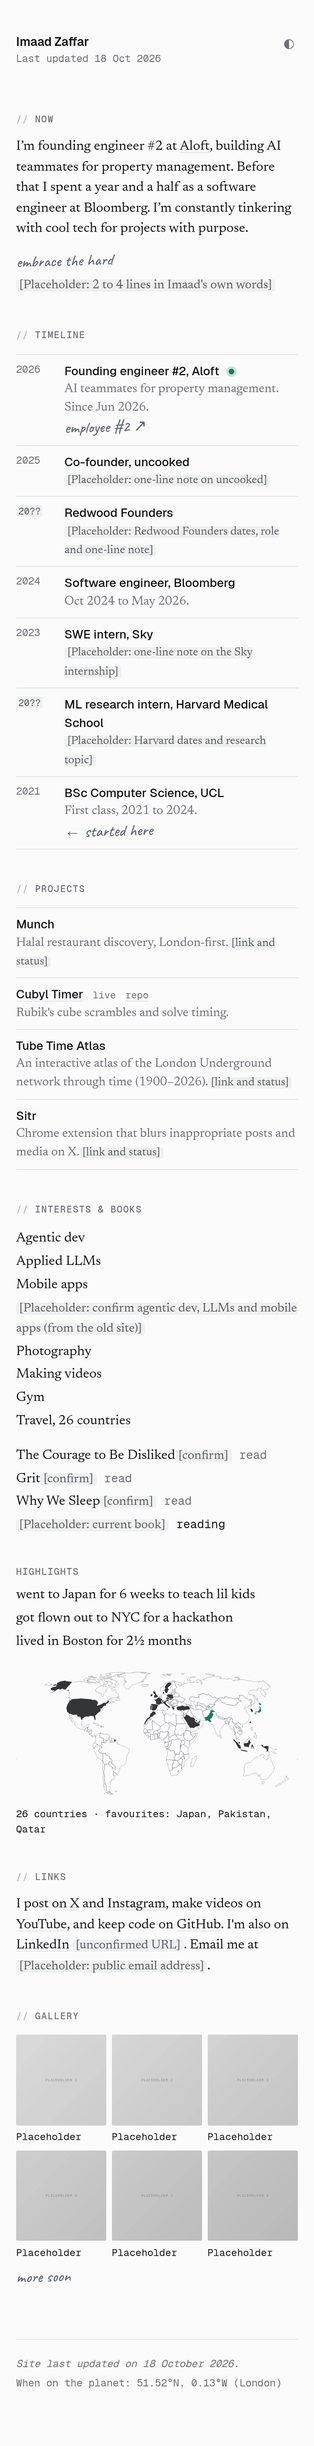
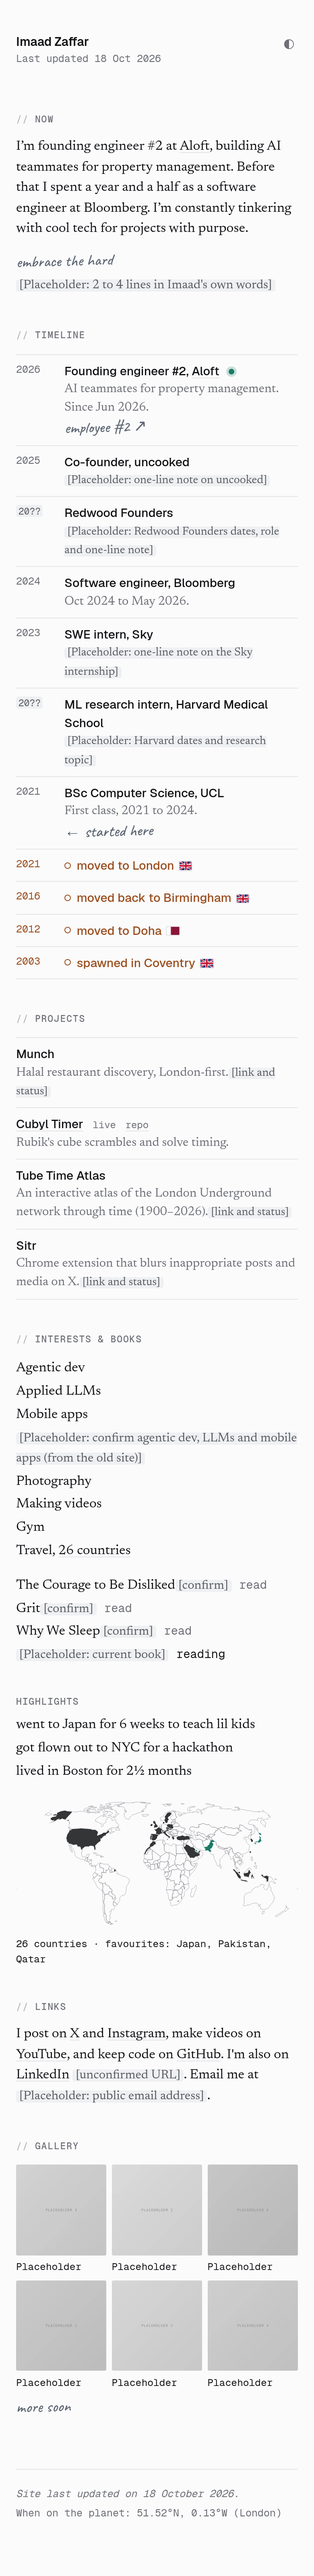
feat(site): add life milestones to the timeline
Timeline entries are now a union on kind. Life rows show in a warm colour with a ring marker and an inline SVG flag, interleaved with work rows by file order.

diff --git a/src/content.config.ts b/src/content.config.ts
@@ -3,6 +3,7 @@ import { file, glob } from 'astro/loaders'
 import countries from 'i18n-iso-countries'
 
 const todo = z.string().optional()
+const alpha2 = Object.keys(countries.getAlpha2Codes()) as [string, ...string[]]
 
 const now = defineCollection({
   loader: glob({ pattern: 'now.md', base: './src/content' }),
@@ -11,16 +12,26 @@ const now = defineCollection({
 
 const timeline = defineCollection({
   loader: file('./src/content/timeline.json'),
-  schema: z.object({
-    year: z.number().int().nullable(),
-    role: z.string().nullable(),
-    org: z.string(),
-    url: z.string().url().optional(),
-    note: z.string().nullable(),
-    current: z.boolean().default(false),
-    aside: z.string().optional(),
-    todo,
-  }),
+  schema: z.discriminatedUnion('kind', [
+    z.object({
+      kind: z.literal('work'),
+      year: z.number().int().nullable(),
+      role: z.string().nullable(),
+      org: z.string(),
+      url: z.string().url().optional(),
+      note: z.string().nullable(),
+      current: z.boolean().default(false),
+      aside: z.string().optional(),
+      todo,
+    }),
+    z.object({
+      kind: z.literal('life'),
+      year: z.number().int(),
+      text: z.string(),
+      place: z.string(),
+      country: z.enum(alpha2),
+    }),
+  ]),
 })
 
 const interests = defineCollection({
@@ -48,8 +59,6 @@ const projects = defineCollection({
     todo,
   }),
 })
-
-const alpha2 = Object.keys(countries.getAlpha2Codes()) as [string, ...string[]]
 
 const travel = defineCollection({
   loader: file('./src/content/travel.json'),

diff --git a/src/styles/global.css b/src/styles/global.css
@@ -11,6 +11,7 @@
   --mark: #eff0f2;
   --mark-ink: #5a5c62;
   --pencil: #5d6672;
+  --life: #9a4f1f;
   color-scheme: light;
 }
 :root[data-theme='dark'] {
@@ -22,6 +23,7 @@
   --mark: #1b1c1f;
   --mark-ink: #9a9da4;
   --pencil: #8e97a4;
+  --life: #e09a63;
   color-scheme: dark;
 }
 
@@ -77,6 +79,10 @@ mark.ph { background: var(--mark); color: var(--mark-ink); padding: 0 0.25em; bo
 .role b { font-weight: 500; }
 .role small { display: block; color: var(--muted); font-family: var(--serif); font-size: 15.5px; line-height: 1.5; }
 .status, .repo { margin-left: 0.5rem; font-family: var(--mono); font-size: 12px; font-style: normal; color: var(--muted); }
+.life .yr, .life b { color: var(--life); }
+.life b::before { content: ''; display: inline-block; width: 6px; height: 6px; margin-right: 0.45rem; vertical-align: 0.1em; border: 1.5px solid currentColor; border-radius: 50%; }
+.flag { display: inline-block; width: 1.05em; height: 0.7em; margin-left: 0.15rem; vertical-align: -0.05em; border-radius: 1px; overflow: hidden; box-shadow: 0 0 0 1px var(--line); }
+.flag svg { display: block; width: 100%; height: 100%; }
 .dot {
   display: inline-block; width: 7px; height: 7px; margin-left: 0.5rem; vertical-align: middle;
   border-radius: 50%; background: var(--accent);

diff --git a/README.md b/README.md
@@ -21,7 +21,7 @@ All copy lives in `src/content/`. The schemas in `src/content.config.ts` validat
 | File | What it holds |
 | --- | --- |
 | `now.md` | The Now paragraph. `updated` drives "Last updated" and the footer date. `aside` is the handwritten note beside it. |
-| `timeline.json` | One row per role: `year`, `role`, `org`, optional `url`, `note`, `current` (adds the dot), and `aside` (the handwritten margin note). |
+| `timeline.json` | Rows in display order, newest first. `kind: "work"` rows have `year`, `role`, `org`, optional `url`, `note`, `current` (adds the dot) and `aside` (the handwritten margin note). `kind: "life"` rows have `year`, `text`, `place` and `country` (ISO alpha-2, shown as a flag). |
 | `projects.json` | One row per project: `name`, `blurb`, optional `url` and `repo`, and `status` (`live`, `archived`, `wip` or `null`). |
 | `interests.json` | Entries with `kind` set to `interest`, `highlight` (`text`) or `book` (`status`: `reading` or `read`). |
 | `travel.json` | Visited countries: `{ "id": "JP", "favourite": true }`, with optional `year` and `note`. `id` must be an ISO 3166-1 alpha-2 code. The world map, its favourites (in teal) and the Travel count come from this file. Countries too small to see get a dot. |
